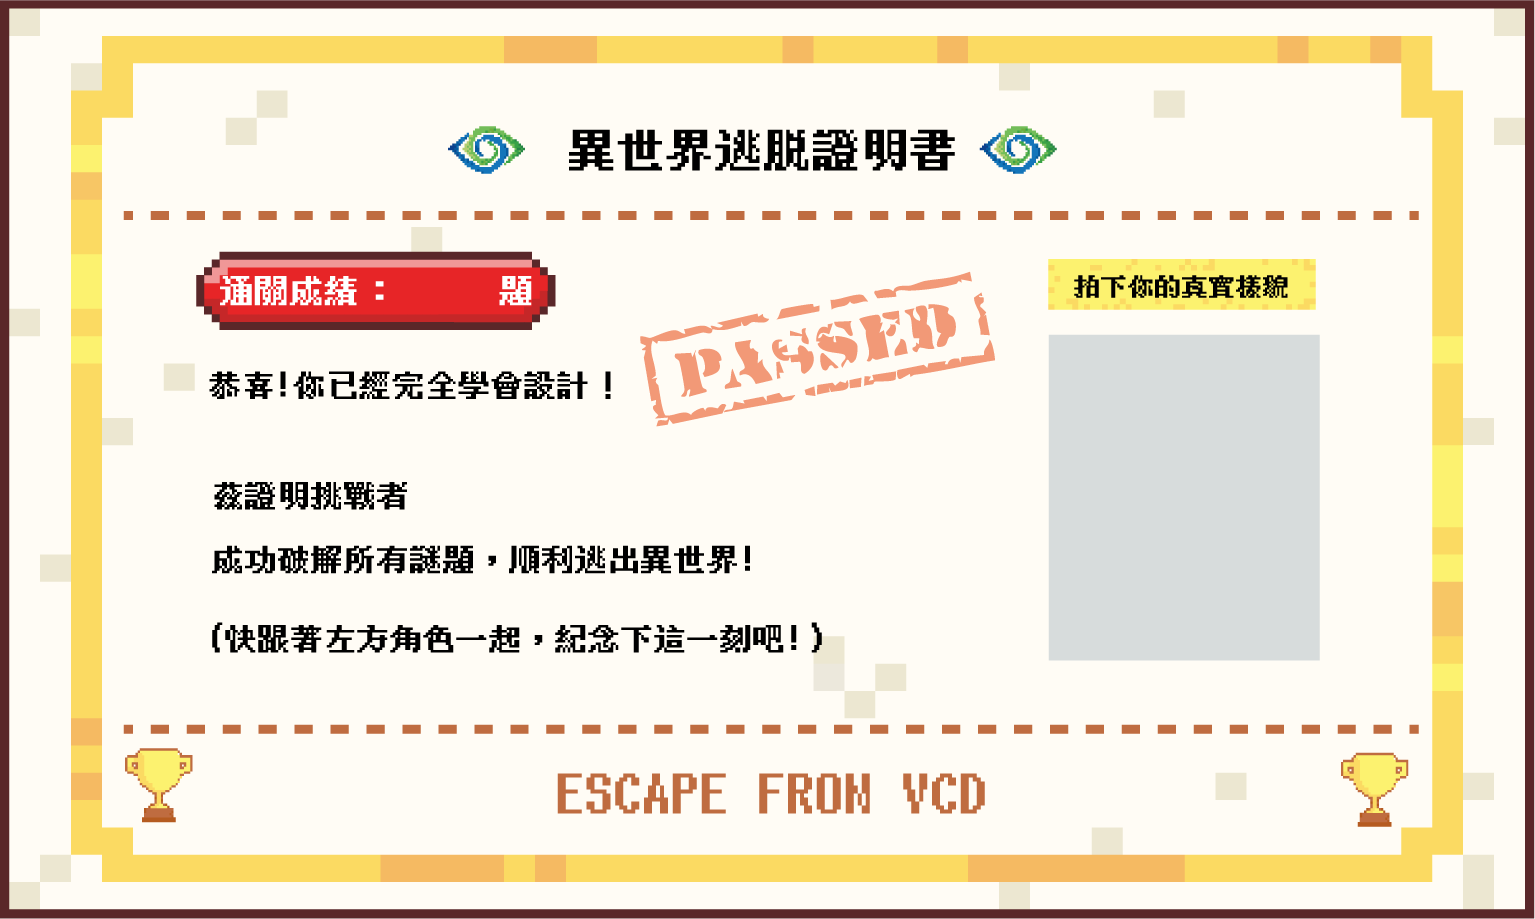
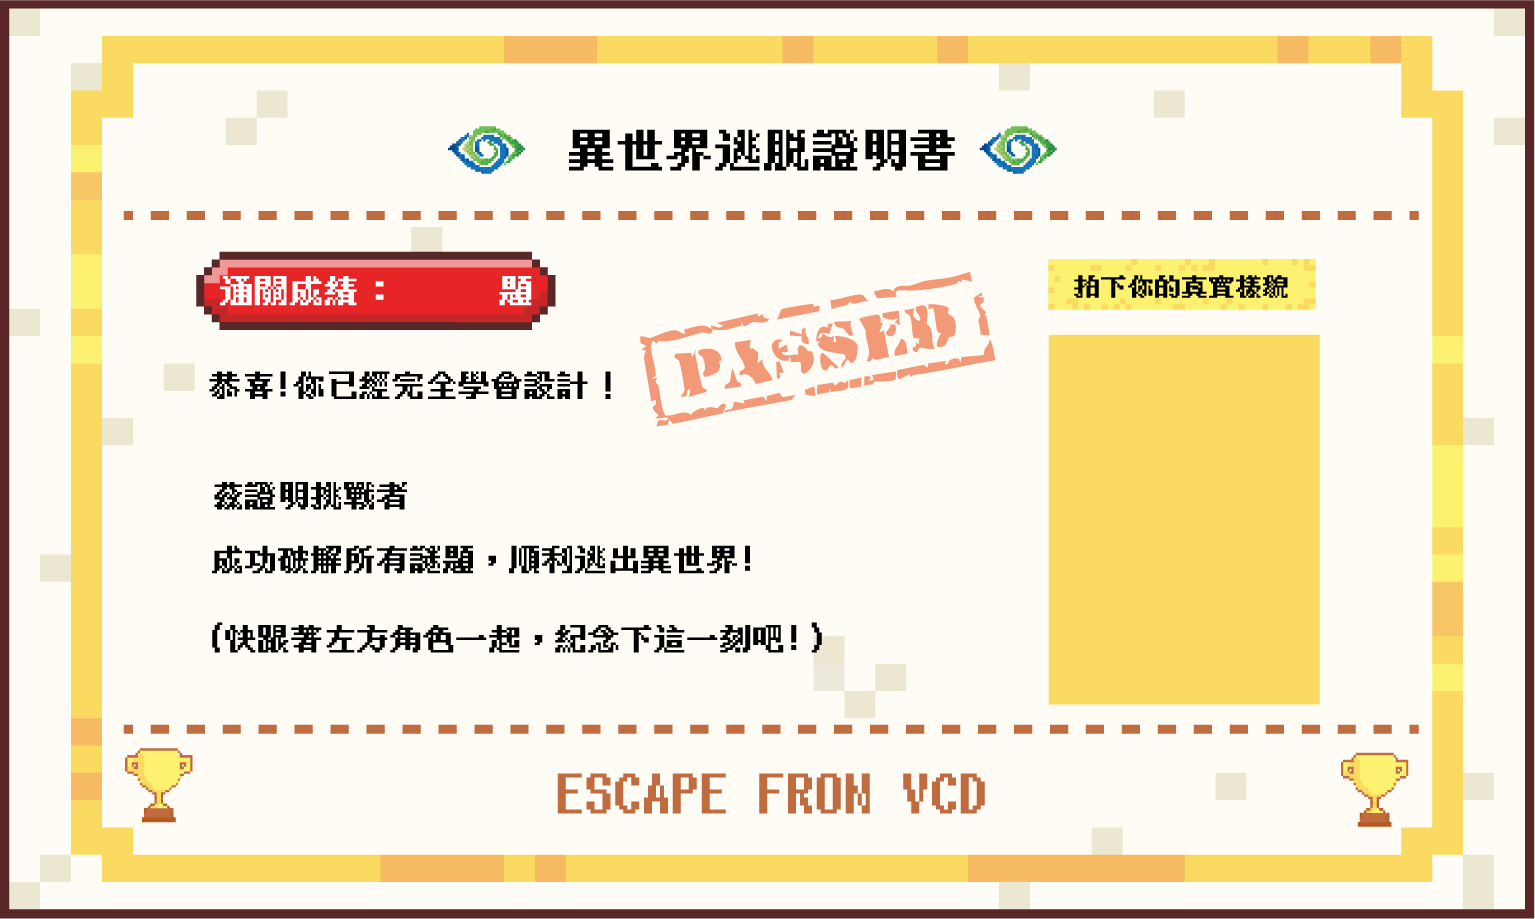
更新

Changed region(s): [[0.6736, 0.3656, 0.8573, 0.7922]]

diff --git a/03/03.html b/03/03.html
@@ -339,7 +339,7 @@
         "../img/題目/start.png",
       ];
       const correctImgSrc = "../img/題目/答對.png"; // ← 請確認你們的「答對圖」檔名
-      const wrongImgSrc = "../img/題目/失敗.png"; // ← 請確認你們的「答錯圖」檔名
+      const wrongImgSrc = "../img/題目/答錯.png"; // ← 請確認你們的「答錯圖」檔名
 
       let currentIndex = 0;
       let score = 0;
@@ -705,31 +705,12 @@
             })
             .catch(() => {});
         } else {
-          const failIntro = document.getElementById("fail-intro-modal");
-          const introBadge = document.getElementById("fail-intro-score-badge");
-          const introScoreVal = document.getElementById("intro-score-val");
-          const failModal = document.getElementById("fail-modal");
-          const failScoreNum = document.getElementById("fail-score-num");
-
-          // 填入分數
-          if (introScoreVal) introScoreVal.textContent = score;
-          if (failScoreNum) failScoreNum.textContent = score;
-
-          // 階段 1（0 秒）：先顯示滿版藍色「FAIL 提示畫面」
-          if (failModal) failModal.style.display = "none";
-          if (introBadge) introBadge.style.display = "none";
-          if (failIntro) failIntro.style.display = "block";
-
-          // 階段 2（1.0 秒後）：在藍色 FAIL 下方跳出「顯示對幾題」
-          setTimeout(() => {
-            if (introBadge) introBadge.style.display = "block";
-          }, 1000);
-
-          // 階段 3（2.8 秒後）：關閉藍色 FAIL，跳到原比例置中的「挑戰失敗頁面」
-          setTimeout(() => {
-            if (failIntro) failIntro.style.display = "none";
-            if (failModal) failModal.style.display = "flex";
-          }, 2800);
+          if (navigator.clipboard) {
+            navigator.clipboard.writeText(`${shareText}\n${shareUrl}`);
+            alert("逃脫結果已複製！");
+          } else {
+            alert(shareText);
+          }
         }
       }
 

diff --git a/css/style03.css b/css/style03.css
@@ -348,8 +348,9 @@ body {
 /* =========================================
    4. 答題結果回饋圖片基礎設定
    ========================================= */
-#feedback-img {
-  width: 450px;
+#feedback-correct-img,
+#feedback-wrong-img {
+  width: 400px;
   max-width: 80vw;
   height: auto;
   object-fit: contain;
@@ -405,10 +406,9 @@ body {
   }
 }
 
-.flash-yellow-fx {
-  animation: correctYellowSparkle 1.05s ease-in-out forwards;
+.flash-yellow-fx #feedback-correct-img {
+  animation: correctImgShine 1.05s ease-in-out forwards;
 }
-
 .flash-yellow-fx #feedback-img {
   animation: correctImgShine 1.05s ease-in-out forwards;
 }
@@ -678,7 +678,7 @@ img {
 .camera-box {
   width: 260px;
   height: 260px;
-  border: 5px solid #5a2d18;
+  border: 5px solid #fbda61;
   background-color: #222;
   position: relative;
   overflow: hidden;
@@ -708,8 +708,8 @@ img {
   position: absolute;
   bottom: 0;
   width: 100%;
-  background: rgba(90, 45, 24, 0.9);
-  color: #ffd23f;
+  background: #fbda61;
+  color: #3b1e10;
   font-size: 14px;
   padding: 4px 0;
   text-align: center;
@@ -779,8 +779,8 @@ img {
 /* 左側玩家選擇的角色 */
 .cert-char {
   position: absolute;
-  top: 43%;
-  left: 52.5%;
+  top: 42%;
+  left: 55%;
   width: 9.5%;
   height: auto;
   image-rendering: pixelated;
@@ -789,10 +789,10 @@ img {
 /* 右側相機灰色框區域 */
 .camera-box {
   position: absolute;
-  top: 36%;
-  left: 67%;
-  width: 17%;
-  height: 37%;
+  top: 35.5%;
+  left: 67.2%;
+  width: 16.6%;
+  height: 34%;
   background: #cccccc;
   overflow: hidden;
   z-index: 2;
@@ -843,8 +843,8 @@ img {
 
 /* 快門按鈕（相機框右下角） */
 .snap-pos {
-  top: 66%;
-  left: 85%;
+  top: 69.5%;
+  left: 74%;
   width: 3.6%;
 }
 
